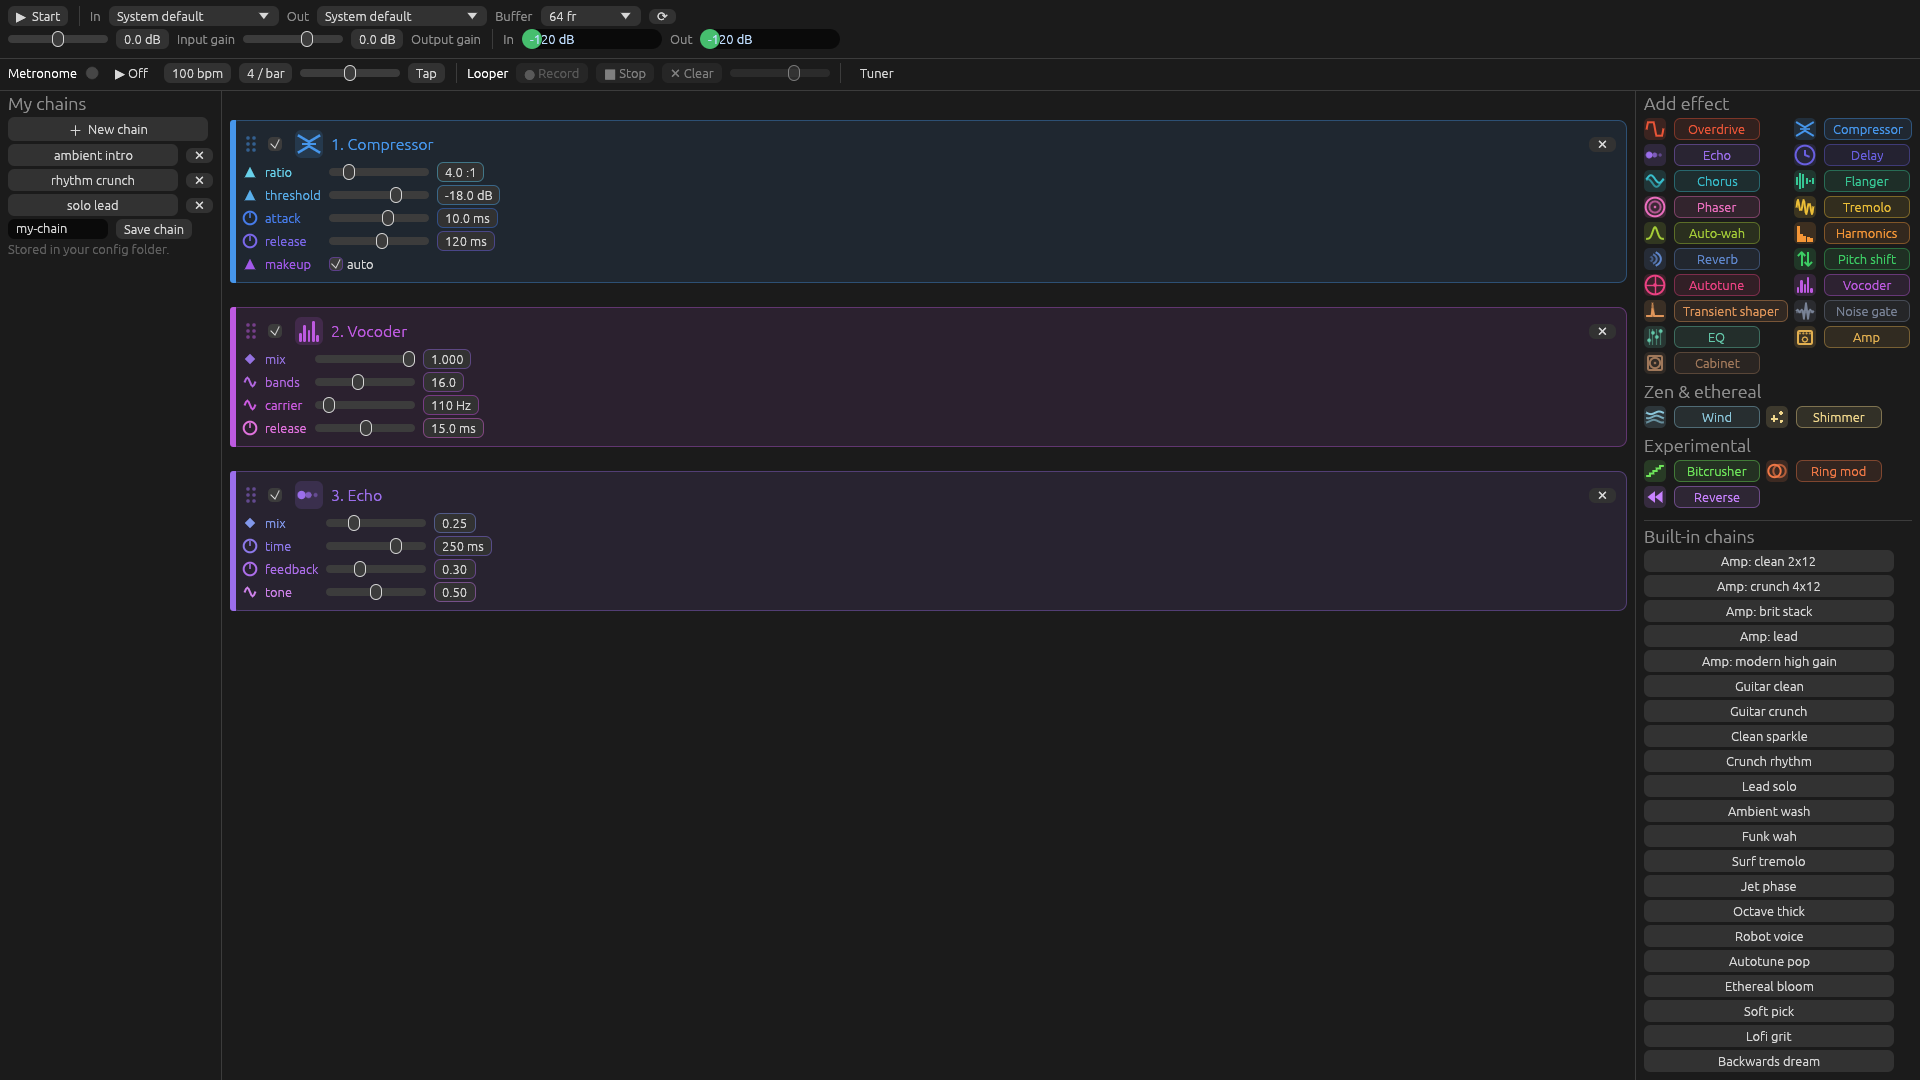
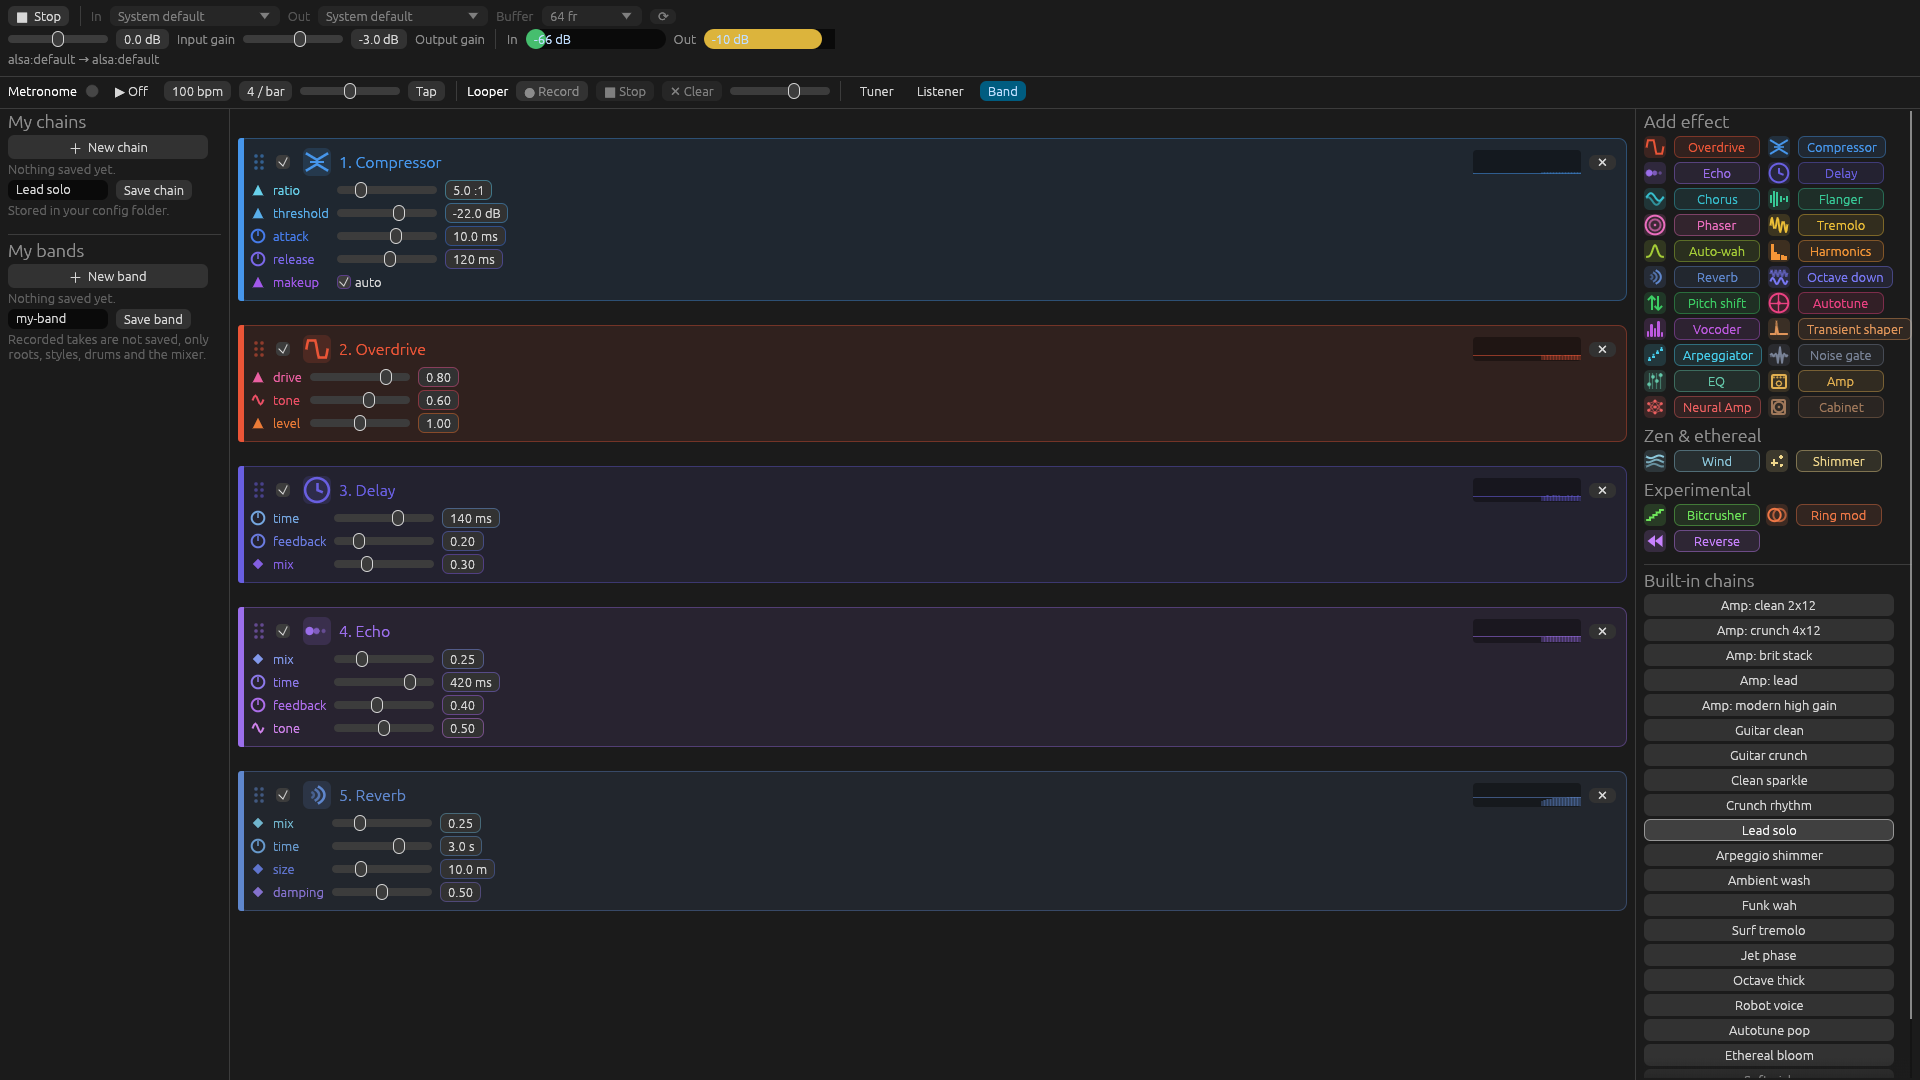
Store listings: describe the Band, views and My bands; new screenshots and promo art

diff --git a/store/make_listing.py b/store/make_listing.py
@@ -6,13 +6,29 @@ import csv, sys, pathlib
 HERE = pathlib.Path(__file__).parent
 ROOT = "msstore/"   # paths start with the name of the uploaded folder (store/msstore), as in the other store listings
 REPO = "https://github.com/alfu32/guitar-fx"
-DESCRIPTION = """guitar-fx is a multi-effect processor for electric guitar. Plug your guitar into an audio interface, build a chain of effects, and hear it live while you play. Everything runs on your computer: no account, no internet, no subscription.
+DESCRIPTION = """guitar-fx is a multi-effect processor and practice band for electric guitar. Plug your guitar into an audio interface, build a chain of effects, hear it live while you play, and let a synthesized band play along. Everything runs on your computer: no account, no internet, no subscription.
 
 BUILD YOUR TONE
 - Amp models: five voicings (clean, crunch, brit, lead and modern high gain) with gain, bass, mid, treble, presence and master controls. They are modelled amps, not captures of specific hardware.
+- Neural Amp Modeler: load your own .nam captures and run them live.
 - Cabinets: four built-in speaker cabinets, or load your own impulse responses (.wav files).
-- Pedals and studio effects: overdrive, compressor, noise gate, EQ, chorus, flanger, phaser, tremolo, auto-wah, echo, delay, reverb, harmonics, pitch shift, autotune, vocoder and a transient shaper.
+- Pedals and studio effects: overdrive, compressor, noise gate, EQ, chorus, flanger, phaser, tremolo, auto-wah, echo, delay, reverb, harmonics, pitch shift, autotune, vocoder, arpeggiator and a transient shaper.
 - Ambient and experimental: shimmer, wind, bitcrusher, ring modulator and reverse.
+
+A BAND THAT FOLLOWS YOU
+The Band panel is a multitrack mixer on one timeline: a drum track plus bass, rhythm guitar, lead guitar, solo guitar and organ.
+- Pick a drum loop from 20 rhythms and edit its step grid, or tap in your own pattern.
+- Give each track its roots: record them by playing (with a one or two measure count-in) or click the lane to place them.
+- Choose a style for each track from a catalog: 14 bass styles, 13 rhythm guitar, 12 lead, 10 solo and 10 organ styles. The band plays your chords in that style.
+- Record a take of your own playing on any track instead, and loop it with the band.
+- Mute, solo and balance every track, with a level meter on each.
+- Save whole band setups in the My bands list, next to your saved chains.
+
+SEE IT THREE WAYS
+Switch the tracks between a waveform with the live picture of what each one played, real music notation (clefs, key signature, time signature, tempo and measures) and a letter view that shows the notes C D E F G A B against time with bar and beat numbers.
+
+LISTENER
+The Listener names the notes you play, finds the chord, key and tempo, and feeds the Band so it can follow your playing.
 
 A CHAIN YOU CAN SEE
 Every effect is a colour-coded card with its own icon and controls. Drag cards to reorder them, bypass any of them, use the same effect more than once, and watch each one's level as you play. Parameters change live, without dropouts.
@@ -24,41 +40,40 @@ PLAY WITH CONFIDENCE
 - Looper: record, overdub, stop and clear, up to 60 seconds.
 
 START QUICKLY
-More than 20 ready-made chains, from clean sparkle and crunch rhythm to ambient wash and high-gain amp chains. Save your own chains and your last session is restored the next time you open the app.
+More than 20 ready-made chains, from clean sparkle and crunch rhythm to ambient wash and high-gain amp chains. Save your own chains and band setups; your last session is restored the next time you open the app.
 
 NOTES
-Actual latency depends on your audio interface, its Windows driver and the buffer size. A USB audio interface with a guitar (Hi-Z) input and headphones are recommended; speakers near an open microphone can cause feedback.
+Actual latency depends on your audio interface, its Windows driver and the buffer size. A USB audio interface with a guitar (Hi-Z) input and headphones are recommended; speakers near an open microphone can cause feedback. The Listener needs single notes, and works best from about 60 Hz up.
 """
 FEATURES = [
-    "Five amp models: clean, crunch, brit, lead and modern high gain",
-    "Four built-in cabinets, plus your own .wav impulse responses",
-    "24 effects: drive, dynamics, EQ, modulation, delay, reverb, pitch and ambient",
+    "Band panel: drums, bass, rhythm, lead and solo guitar and organ on one timeline",
+    "Record your own roots with a count-in, or place them; pick a style per track from a catalog",
+    "Tracks as a waveform, real music notation or letters with bar and beat numbers",
+    "Save band setups next to your saved effect chains",
+    "Five amp models, Neural Amp Modeler (.nam) captures and four built-in cabinets",
+    "Own .wav impulse responses for cabinets",
     "Drag-to-reorder effect chain with colour-coded cards and per-effect level meters",
-    "Live parameter changes while you play",
-    "Noise gate and 3-band EQ with sweepable mid, low-cut and high-cut",
-    "Built-in tuner with note, cents and needle display",
-    "Metronome with tap tempo and a looper with overdub",
-    "More than 20 ready-made chains; save your own",
+    "Listener: names the notes, chord, key and tempo you play",
+    "Tuner, metronome with tap tempo, and a looper with overdub",
     "Works offline: no account, no ads, no data collected",
 ]
 LICENSE = """guitar-fx is provided "as is", without warranty of any kind, express or implied. You may use it for personal and commercial music making. K3D0 is not liable for any damage, data loss or hearing damage arising from its use. Keep your output volume at a safe level, especially with headphones.
 
 Privacy: the app does not collect or transmit personal data. See https://github.com/alfu32/guitar-fx/blob/master/PRIVACY.md"""
-SHORT = "A multi-effect guitar processor: amp models, cabinets, pedals, tuner, looper and metronome, with live monitoring."
-RELEASE = """Amp models, cabinet impulse responses, noise gate, EQ, tuner, metronome and looper.
-New chain button; drag to reorder effects; level graph in each card; last session restored.
-Fixed the input-to-output delay that could grow during long sessions with some effects."""
+SHORT = "A guitar multi-effect processor with a practice band: amps, cabinets, pedals, drums, bass, guitars and organ, with live monitoring."
+RELEASE = """New Band panel: a drum track plus bass, rhythm, lead and solo guitar and organ on one timeline. Record roots with a count-in or place them, pick a style per track, record your own takes, and view the tracks as a waveform, music notation or letters.
+Save band setups in the new My bands list. New Listener window, resizable side panels, Neural Amp Modeler support."""
 MINHW = ["Windows 10 version 1809 or later (x64 or ARM64)", "An audio input device (guitar audio interface or microphone) and an output device",
          "Graphics with DirectX 12 or Vulkan support", "4 GB of memory"]
 RECHW = ["USB audio interface with a guitar (Hi-Z) input", "Headphones", "A multi-core processor"]
-TERMS = ["guitar effects", "guitar amp simulator", "guitar pedalboard", "guitar tuner", "looper", "cabinet impulse response", "multi-effects"]
+TERMS = ["guitar effects", "guitar amp simulator", "guitar pedalboard", "guitar tuner", "looper", "backing band", "drum machine"]
 CAPTIONS = [
-    "A crunch amp chain: noise gate, amp model, cabinet and reverb. Each effect is a colour-coded card with its own controls.",
-    "An ambient chain with compressor, chorus, echo and a long reverb. Saved chains are listed under My chains.",
-    "A lead chain: compressor, hot overdrive, slapback delay, echo and reverb, with 20+ built-in chains on the right.",
-    "Robot voice: a vocoder and echo, one of the experimental chains.",
+    "The Band panel: a drum loop and five played tracks on one timeline, shown as waveforms with the live sound of each track.",
+    "The same band as real music notation: clefs, key signature, time signature, tempo and measures for every track.",
+    "The letter view: notes C to B against time, with bar and beat numbers and chord names.",
+    "A lead chain: compressor, hot overdrive, delay, echo and reverb, with 20+ built-in chains on the right.",
     "A modern high-gain chain with noise gate, amp, cabinet and EQ.",
-    "A funk chain: squashed compression, envelope wah and a little drive.",
+    "An ambient chain with compressor, chorus, echo and a long reverb.",
 ]
 VALUES = {"Description": DESCRIPTION, "ReleaseNotes": RELEASE, "Title": "guitar-fx", "ShortTitle": "guitar-fx",
           "SortTitle": "guitar-fx", "VoiceTitle": "guitar effects", "ShortDescription": SHORT, "DevStudio": "K3D0",

diff --git a/store/make_assets.py b/store/make_assets.py
@@ -46,7 +46,7 @@ def logos():
     p = gradient(720, 1080).convert("RGBA"); p.alpha_composite(icon(420), (150, 200)); d = ImageDraw.Draw(p)
     text(d, (360, 720), "guitar-fx", 84, (255, 255, 255), True, "mm")
     text(d, (360, 800), "Multi-effect guitar processor", 30, ORANGE, False, "mm")
-    text(d, (360, 850), "Amps · cabinets · pedals · looper · tuner", 22, (170, 175, 190), False, "mm")
+    text(d, (360, 850), "Amps · pedals · band · looper · tuner", 22, (170, 175, 190), False, "mm")
     p.convert("RGB").save(OUT / "poster-720x1080.png")
     icon(150).save(OUT / "logo-150x150.png"); icon(71).save(OUT / "logo-71x71.png")
 
@@ -54,8 +54,8 @@ def promo(shot, w, h, name):
     p = gradient(w, h).convert("RGBA"); s = h / 1080
     p.alpha_composite(icon(int(260 * s)), (int(90 * s), int(140 * s))); d = ImageDraw.Draw(p)
     text(d, (int(90 * s), int(480 * s)), "guitar-fx", int(120 * s), (255, 255, 255), True)
-    text(d, (int(90 * s), int(630 * s)), "Build your guitar tone.", int(46 * s), ORANGE)
-    text(d, (int(90 * s), int(700 * s)), "Amps, cabinets, pedals, looper, tuner.", int(34 * s), (170, 175, 190))
+    text(d, (int(90 * s), int(630 * s)), "Build your tone. Play with a band.", int(46 * s), ORANGE)
+    text(d, (int(90 * s), int(700 * s)), "Amps, pedals, drums, bass, guitars, organ.", int(34 * s), (170, 175, 190))
     sh = Image.open(shot).convert("RGBA"); tw = int(w * 0.50); th = int(tw * 1080 / 1920)
     sh = sh.resize((tw, th), Image.LANCZOS); x, y = w - tw - int(60 * s), (h - th) // 2
     d.rounded_rectangle([x - 6, y - 6, x + tw + 6, y + th + 6], radius=14, fill=(60, 66, 84, 255))

diff --git a/store/snap/listing.md b/store/snap/listing.md
@@ -8,7 +8,7 @@ The summary, description and title below are also inside the snap (`meta/snap.ya
 | --- | --- |
 | Name | `guitar-fx` |
 | Title | guitar-fx |
-| Summary (max 78) | Multi-effect guitar processor with live, low-latency monitoring |
+| Summary (max 78) | Guitar multi-effect processor with a practice band and live monitoring |
 | Category | Music and audio |
 | Website | https://github.com/alfu32/guitar-fx |
 | Source code | https://github.com/alfu32/guitar-fx |
@@ -22,12 +22,19 @@ The summary, description and title below are also inside the snap (`meta/snap.ya
 
 ## Description
 
-An ordered, repeatable chain of guitar effects with live monitoring, built for low delay.
+An ordered, repeatable chain of guitar effects with live monitoring, built for low delay, and a synthesized practice band that plays along.
 
 **Tone**
 - Five amp models (clean, crunch, brit, lead, modern) with gain, bass, mid, treble, presence and master. They are modelled amps, not captures of specific hardware.
 - Four built-in cabinets, or load your own impulse responses (.wav files).
 - 24 effects: overdrive, compressor, noise gate, EQ, chorus, flanger, phaser, tremolo, auto-wah, echo, delay, reverb, harmonics, pitch shift, autotune, vocoder, transient shaper, shimmer, wind, bitcrusher, ring modulator and reverse.
+
+**Band**
+- A multitrack mixer on one timeline: drums plus bass, rhythm, lead and solo guitar and organ.
+- 20 drum loops with an editable step grid. Give each track its roots by recording them (with a 1-2 measure count-in) or by placing them, then pick a style: 14 bass, 13 rhythm, 12 lead, 10 solo, 10 organ.
+- Or record a take of your own playing on any track. Mute, solo, volume and a meter per track.
+- View the tracks as a waveform, as music notation (clefs, key, time signature, tempo) or as letters with bar and beat numbers.
+- Save band setups in the My bands list. The Listener names the notes, chord, key and tempo you play.
 
 **Workflow**
 - Drag cards to reorder, bypass any effect, repeat an effect as often as you like, and change parameters live.
